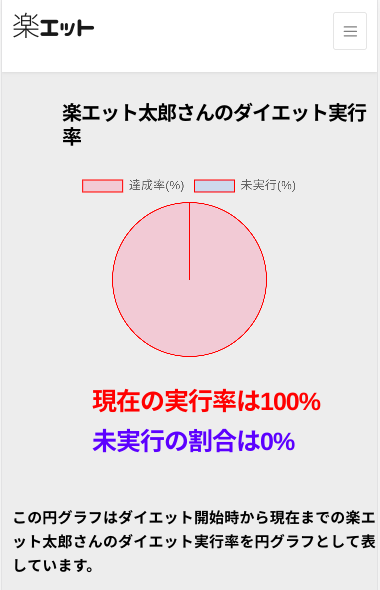
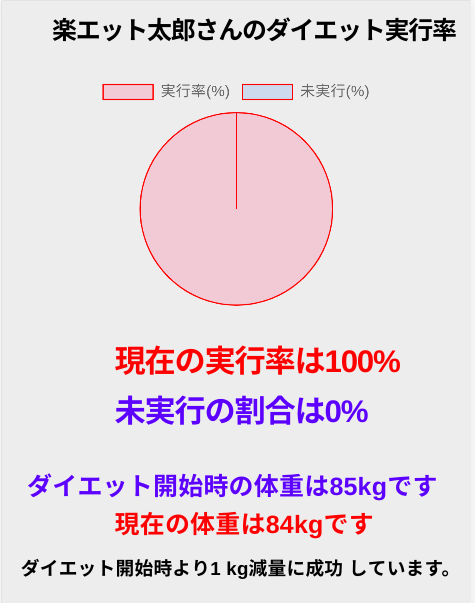
about画面修正

Changed region(s): [[0.0289, 0.122, 0.9842, 0.9763], [0.0289, 0.0, 0.9842, 0.0915]]

diff --git a/public/css/about.css b/public/css/about.css
@@ -130,7 +130,7 @@ color:black;
 }
 
 #step15{
-margin-left:150px;
+margin-left:120px;
 }
 
 h1#method1{

diff --git a/resources/views/home/about.blade.php b/resources/views/home/about.blade.php
@@ -42,7 +42,7 @@
 <img class="step14" src="{{ asset('img/step14.png') }}">
 <p class="jikkou">次にダイエットの実行率を見てみましょう、グラフページの下部に前の10件、次の10件、ダイエット実行率の３つのボタンがあり、このうちのダイエット実行率のボタンを押してみましょう。</p>
 <img class="jikkou" src="{{ asset('img/jikkou.png') }}">
-<p class="main15">ダイエット実行率ボタンを押してみるとダイエット実行率を円グラフで表しているグラフが表示されます。</p>
+<p class="main15">ダイエット実行率ボタンを押してみるとダイエット実行率を円グラフで表しているグラフが表示されます。更にはこのページでダイエット開始時の体重、現在の体重、どれくらい体重が増減したのかをひと目で確認出来ます。</p>
 <div id="step15">
  <img class="step15" src="{{ asset('img/step15.png') }}">
 </div>
